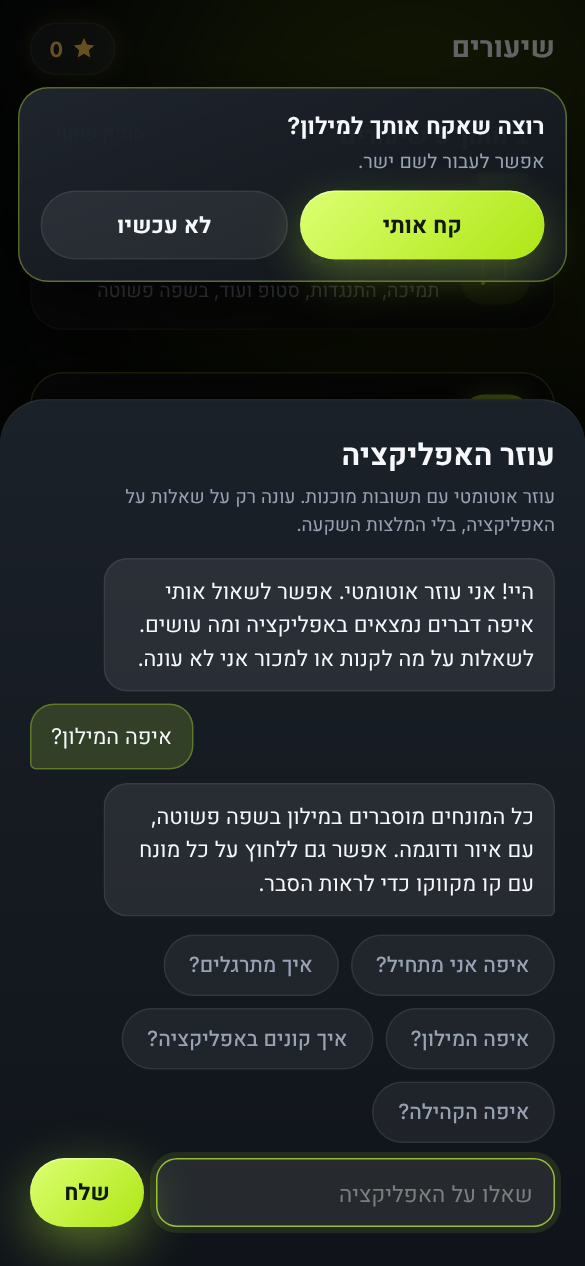
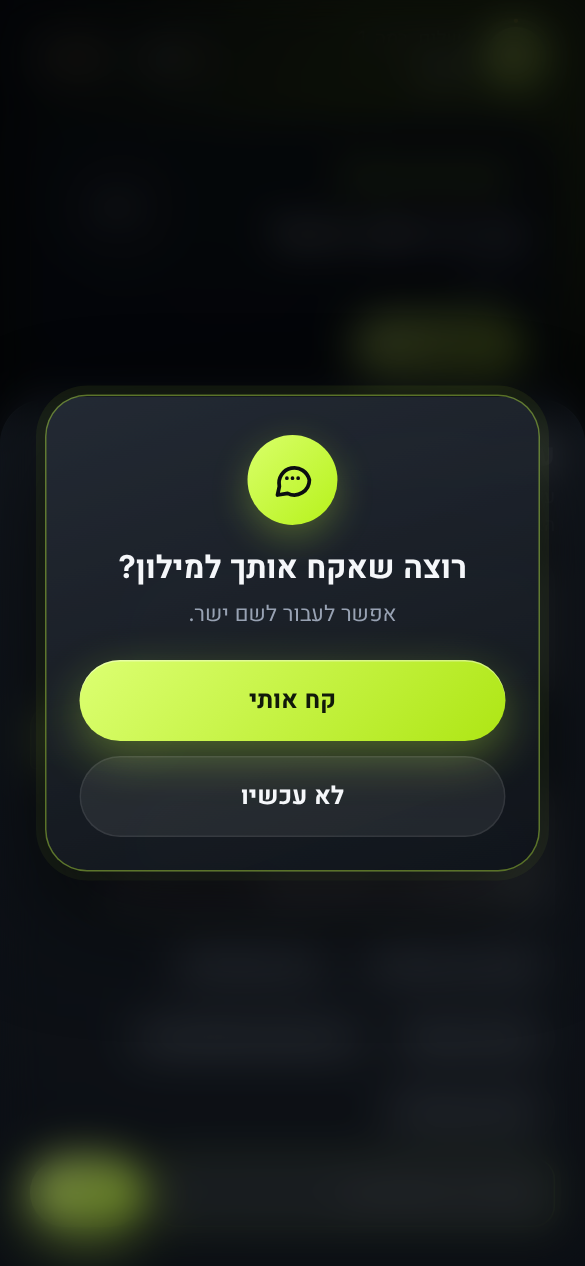
Bot go-there message: larger, centered, blurred backdrop
Claude-Session: https://claude.ai/code/session_011m9Yf8x73arYD9GUop3Civ

diff --git a/capital-market-app/review/app.html b/capital-market-app/review/app.html
@@ -890,6 +890,18 @@ bdi{unicode-bidi:isolate}
 .cp-h b{font-size:14px;flex:1}.cp-rep{font-size:12px}
 .cp-a{margin-top:8px;padding:8px 10px;border-radius:12px;background:rgba(255,255,255,.05);font-size:13.5px;line-height:1.55}.cp-a b{display:block;font-size:12.5px;color:var(--lime);margin-bottom:2px}
 
+/* "take me there" message: big, centered, with the screen blurred behind it */
+.navpop{inset:0;top:0;left:0;right:0;padding:24px;display:flex;align-items:center;justify-content:center;background:rgba(5,8,12,.42);-webkit-backdrop-filter:blur(14px) saturate(.9);backdrop-filter:blur(14px) saturate(.9);border:0;border-radius:0;box-shadow:none;transform:none;transition:opacity .28s}
+.navpop[hidden]{display:none}
+.np-card{width:100%;max-width:330px;text-align:center;background:linear-gradient(160deg,rgba(36,43,53,.97),rgba(16,20,26,.98));border:1px solid rgba(200,255,61,.4);border-radius:28px;padding:26px 22px 22px;box-shadow:0 30px 70px rgba(0,0,0,.6),0 0 0 6px rgba(200,255,61,.07);transform:translateY(18px) scale(.94);transition:transform .38s cubic-bezier(.22,1,.36,1)}
+.navpop.show .np-card{transform:none}
+.np-ic{width:60px;height:60px;margin:0 auto 14px;border-radius:50%;display:grid;place-items:center;color:#0b0d10;background:linear-gradient(135deg,#d9ff6a,#b6f21a);box-shadow:0 8px 24px rgba(200,255,61,.28)}
+.np-ic svg{width:30px;height:30px}
+.navpop .np-t b{font-size:21px;line-height:1.35;margin-bottom:6px}
+.navpop .np-t span{font-size:14.5px}
+.navpop .np-b{flex-direction:column;gap:10px;margin-top:20px}
+.navpop .np-b .btn{flex:none;width:100%;height:54px;font-size:16.5px}
+
 body{background:#0b0d10}
 @media (min-width:481px){body{background:#d9dde3}}
 </style>
@@ -2527,11 +2539,12 @@ const botLog = [];
   let popT = 0;
   const hidePop = () => { clearTimeout(popT); pop.classList.remove('show'); setTimeout(() => { if (!pop.classList.contains('show')) pop.hidden = true; }, 250); };
   window.botAskGo = (label, name, arg) => {
-    pop.innerHTML = `<div class="np-t"><b>רוצה שאקח אותך ל${label}?</b><span>אפשר לעבור לשם ישר.</span></div><div class="np-b"><button class="btn primary small" id="np-go">קח אותי</button><button class="btn ghost small" id="np-no">לא עכשיו</button></div>`;
+    pop.innerHTML = `<div class="np-card" role="dialog" aria-modal="true"><div class="np-ic">${fab.innerHTML}</div><div class="np-t"><b>רוצה שאקח אותך ל${label}?</b><span>אפשר לעבור לשם ישר.</span></div><div class="np-b"><button class="btn primary" id="np-go">קח אותי</button><button class="btn ghost" id="np-no">לא עכשיו</button></div></div>`;
     pop.hidden = false; requestAnimationFrame(() => pop.classList.add('show'));
     $('#np-go').onclick = () => { hidePop(); closeSheet(); go(name, arg); };
     $('#np-no').onclick = hidePop;
-    clearTimeout(popT); popT = setTimeout(hidePop, 12000);
+    pop.onclick = (e) => { if (e.target === pop) hidePop(); };
+    clearTimeout(popT);
   };
   const bubble = (who, text) => `<div class="bm ${who}">${text}</div>`;
   const addMsg = (who, text, asText) => {

diff --git a/capital-market-app/prototype/style.css b/capital-market-app/prototype/style.css
@@ -882,3 +882,15 @@ bdi{unicode-bidi:isolate}
 .cp-h{display:flex;align-items:center;gap:8px}.cp-h i{width:28px;height:28px;border-radius:50%;display:grid;place-items:center;background:rgba(200,255,61,.16);color:var(--lime);font-style:normal;font-weight:700;font-size:13px}
 .cp-h b{font-size:14px;flex:1}.cp-rep{font-size:12px}
 .cp-a{margin-top:8px;padding:8px 10px;border-radius:12px;background:rgba(255,255,255,.05);font-size:13.5px;line-height:1.55}.cp-a b{display:block;font-size:12.5px;color:var(--lime);margin-bottom:2px}
+
+/* "take me there" message: big, centered, with the screen blurred behind it */
+.navpop{inset:0;top:0;left:0;right:0;padding:24px;display:flex;align-items:center;justify-content:center;background:rgba(5,8,12,.42);-webkit-backdrop-filter:blur(14px) saturate(.9);backdrop-filter:blur(14px) saturate(.9);border:0;border-radius:0;box-shadow:none;transform:none;transition:opacity .28s}
+.navpop[hidden]{display:none}
+.np-card{width:100%;max-width:330px;text-align:center;background:linear-gradient(160deg,rgba(36,43,53,.97),rgba(16,20,26,.98));border:1px solid rgba(200,255,61,.4);border-radius:28px;padding:26px 22px 22px;box-shadow:0 30px 70px rgba(0,0,0,.6),0 0 0 6px rgba(200,255,61,.07);transform:translateY(18px) scale(.94);transition:transform .38s cubic-bezier(.22,1,.36,1)}
+.navpop.show .np-card{transform:none}
+.np-ic{width:60px;height:60px;margin:0 auto 14px;border-radius:50%;display:grid;place-items:center;color:#0b0d10;background:linear-gradient(135deg,#d9ff6a,#b6f21a);box-shadow:0 8px 24px rgba(200,255,61,.28)}
+.np-ic svg{width:30px;height:30px}
+.navpop .np-t b{font-size:21px;line-height:1.35;margin-bottom:6px}
+.navpop .np-t span{font-size:14.5px}
+.navpop .np-b{flex-direction:column;gap:10px;margin-top:20px}
+.navpop .np-b .btn{flex:none;width:100%;height:54px;font-size:16.5px}

diff --git a/capital-market-app/prototype/js/bot.js b/capital-market-app/prototype/js/bot.js
@@ -42,11 +42,12 @@ const botLog = [];
   let popT = 0;
   const hidePop = () => { clearTimeout(popT); pop.classList.remove('show'); setTimeout(() => { if (!pop.classList.contains('show')) pop.hidden = true; }, 250); };
   window.botAskGo = (label, name, arg) => {
-    pop.innerHTML = `<div class="np-t"><b>רוצה שאקח אותך ל${label}?</b><span>אפשר לעבור לשם ישר.</span></div><div class="np-b"><button class="btn primary small" id="np-go">קח אותי</button><button class="btn ghost small" id="np-no">לא עכשיו</button></div>`;
+    pop.innerHTML = `<div class="np-card" role="dialog" aria-modal="true"><div class="np-ic">${fab.innerHTML}</div><div class="np-t"><b>רוצה שאקח אותך ל${label}?</b><span>אפשר לעבור לשם ישר.</span></div><div class="np-b"><button class="btn primary" id="np-go">קח אותי</button><button class="btn ghost" id="np-no">לא עכשיו</button></div></div>`;
     pop.hidden = false; requestAnimationFrame(() => pop.classList.add('show'));
     $('#np-go').onclick = () => { hidePop(); closeSheet(); go(name, arg); };
     $('#np-no').onclick = hidePop;
-    clearTimeout(popT); popT = setTimeout(hidePop, 12000);
+    pop.onclick = (e) => { if (e.target === pop) hidePop(); };
+    clearTimeout(popT);
   };
   const bubble = (who, text) => `<div class="bm ${who}">${text}</div>`;
   const addMsg = (who, text, asText) => {
